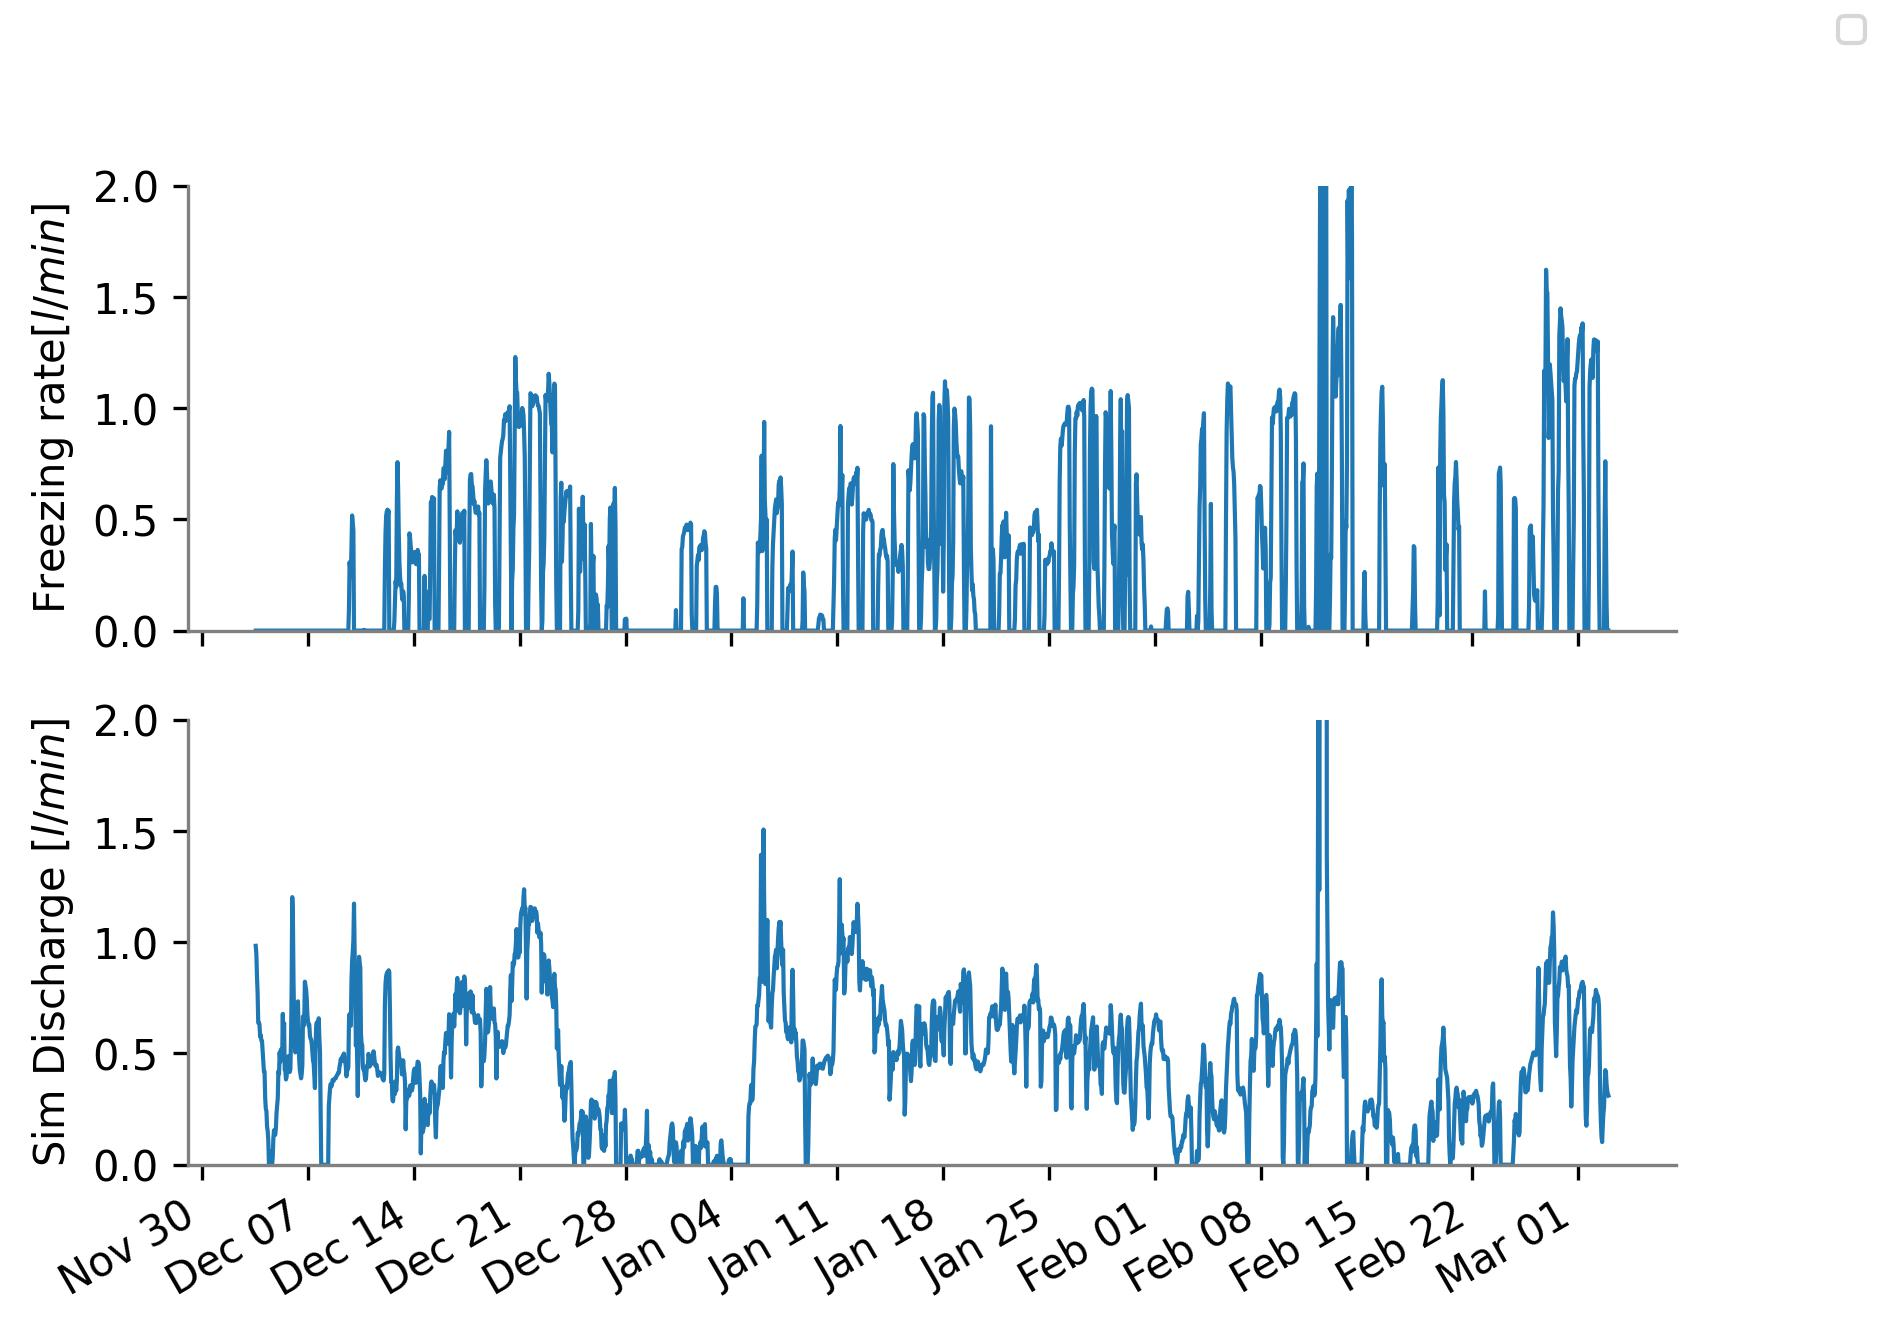
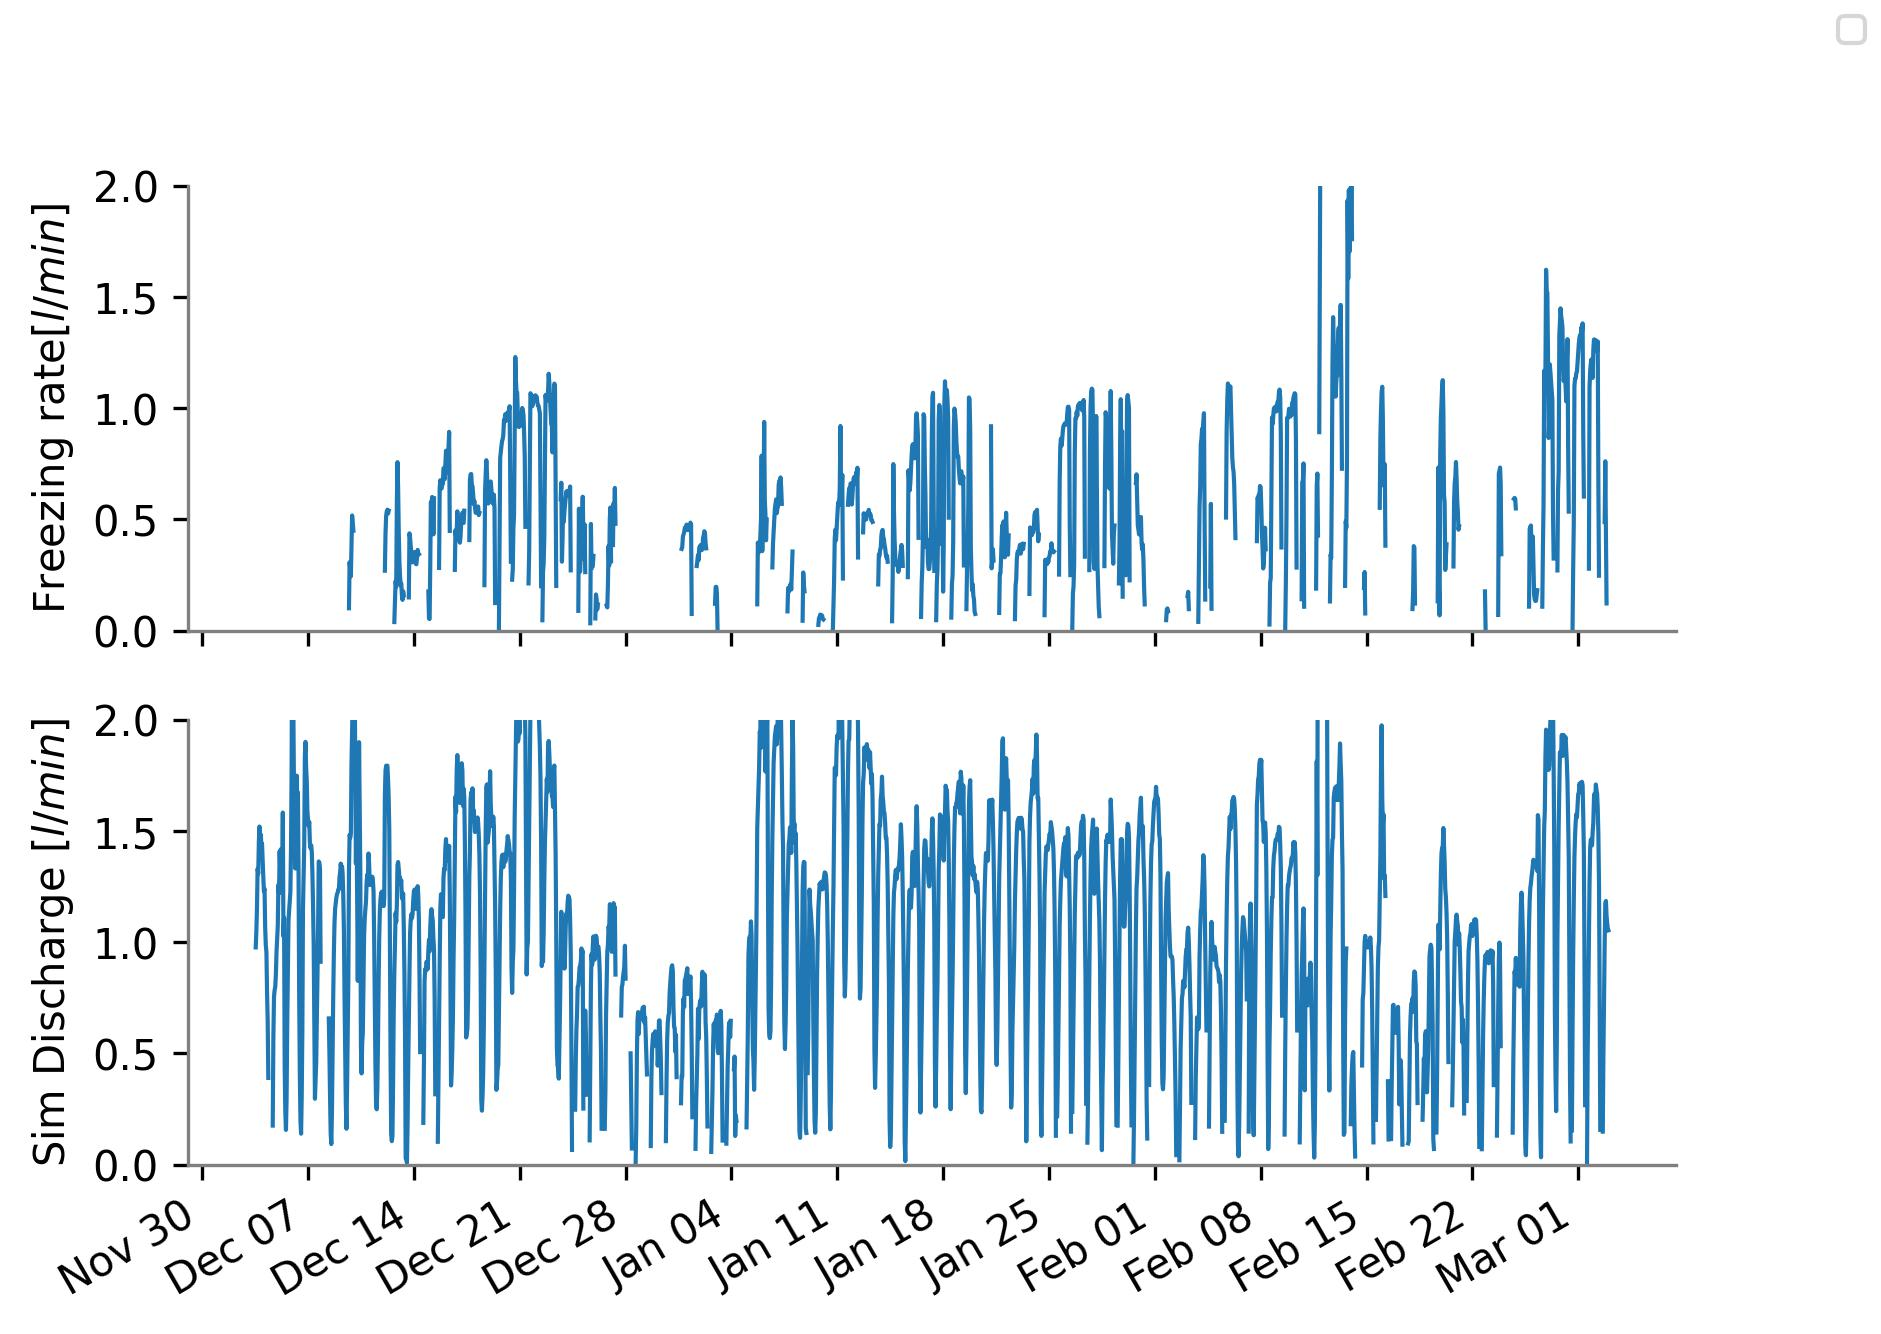
Producing approximation fig

Changed region(s): [[0.1233, 0.5225, 0.8634, 0.8913], [0.185, 0.1537, 0.8634, 0.4918]]

diff --git a/src/plots/simvsreal_dis.py b/src/plots/simvsreal_dis.py
@@ -22,6 +22,7 @@ from src.models.icestupaClass import Icestupa
 from src.models.methods.metadata import get_parameter_metadata
 from src.automate.gen_coeffs import autoDis
 from src.automate.autoDischarge import TempFreeze
+from lmfit.models import GaussianModel
 
 if __name__ == "__main__":
     # Main logger
@@ -36,13 +37,14 @@ if __name__ == "__main__":
     # df = df[df.time<datetime(2022,1,26)] #automation error
 
     objs = ["WUE", "ICV"]
-    objs = ["WUE"]
-    # objs = ["ICV"]
+    # objs = ["WUE"]
+    objs = ["ICV"]
 
     for obj in objs:
         print(obj)
         with open(FOLDER["input"] + "dynamic/coeffs_" + obj + ".json") as f:
             params = json.load(f)
+        sun_params = {"amplitude": params["amplitude"], "center": params["center"], "sigma": params["sigma"]}
 
         for i in range(0,df.shape[0]):
             # df.loc[i, "Discharge_sim"] = autoDis(**params, time=df.time.dt.hour[i], temp=df.temp[i],rh=df.RH[i],wind=df.wind[i])
@@ -52,7 +54,9 @@ if __name__ == "__main__":
             data["wind"] = df.wind[i]
             data["obj"] = obj
             data["alt"] = SITE["alt"]/1000
-            df.loc[i, "Discharge_sim"] = TempFreeze(data)
+            model = GaussianModel()
+
+            df.loc[i, "Discharge_sim"] = TempFreeze(data) + model.eval(x=df.time.dt.hour[i], **sun_params)
             
             if obj == "ICV":
                 df.loc[i, "Discharge_sim"]*= math.sqrt(2) * math.pi * icestupa.R_F **2
@@ -70,9 +74,17 @@ if __name__ == "__main__":
         logger.warning(df.Discharge_sim.describe())
         logger.warning(df.Discharge.describe())
 
+        df["fountain_froze"] = np.where(df.fountain_froze == 0, np.nan, df.fountain_froze)
+        df["Discharge_sim"] = np.where(df.Discharge_sim == 0, np.nan, df.Discharge_sim)
+
+        column_1 = "fountain_froze"
+        column_2 = "Discharge_sim"
+        correlation = df[column_1].corr(icestupa.df[column_2])
+        print("Correlation between %s and %s is %0.2f"%(column_1, column_2, correlation))
+
         fig, ax = plt.subplots(2, 1, sharex="col")
+
         x = df.time[1:]
-        # y1 = df.Discharge[1:]
         y1 = df.fountain_froze[1:]/60
         y2 = df.Discharge_sim[1:]
         ax[0].plot(
@@ -106,10 +118,33 @@ if __name__ == "__main__":
 
         ax[1].xaxis.set_major_locator(mdates.WeekdayLocator())
         ax[1].xaxis.set_major_formatter(mdates.DateFormatter("%b %d"))
-# ax[1].xaxis.set_minor_locator(mdates.DayLocator())
         fig.autofmt_xdate()
-# fig.text(0.04, 0.5, "Ice Volume[$m^3$]", va="center", rotation="vertical")
         handles, labels = ax[1].get_legend_handles_labels()
         fig.legend(handles, labels, loc="upper right", prop={"size": 8})
-# plt.legend()
         plt.savefig("data/figs/paper3/simvsreal_dis.jpg", bbox_inches="tight", dpi=300)
+        plt.clf()
+
+        fig = plt.figure()
+        ax1 = fig.add_subplot(111)
+        ax1.scatter(y1, y2, s=2)
+        ax1.set_xlabel("Physical")
+        ax1.set_ylabel("Empirical")
+        ax1.grid()
+
+        # lims = [
+        #     np.min([ax1.get_xlim(), ax1.get_ylim()]),  # min of both axes
+        #     np.max([ax1.get_xlim(), ax1.get_ylim()]),  # max of both axes
+        # ]
+        lims = [0,2]
+
+        # now plot both limits against eachother
+        ax1.plot(lims, lims, "--k", alpha=0.25, zorder=0)
+        ax1.set_aspect("equal")
+        ax1.set_xlim(lims)
+        ax1.set_ylim(lims)
+
+        plt.savefig(
+            "data/figs/paper3/freezing_rate_corr.jpg",
+            bbox_inches="tight",
+            dpi=300,
+        )

diff --git a/src/misc/correlate.py b/src/misc/correlate.py
@@ -41,7 +41,6 @@ if __name__ == "__main__":
     # print(icestupa.df[['When', 'cam_temp']].loc[icestupa.df.cam_temp>0])
 
     fig = plt.figure()
-
     ax1 = fig.add_subplot(111)
     ax1.scatter(icestupa.df.Qs, -icestupa.df.Qs_meas, s=2)
     ax1.set_xlabel("Modelled Qs")
